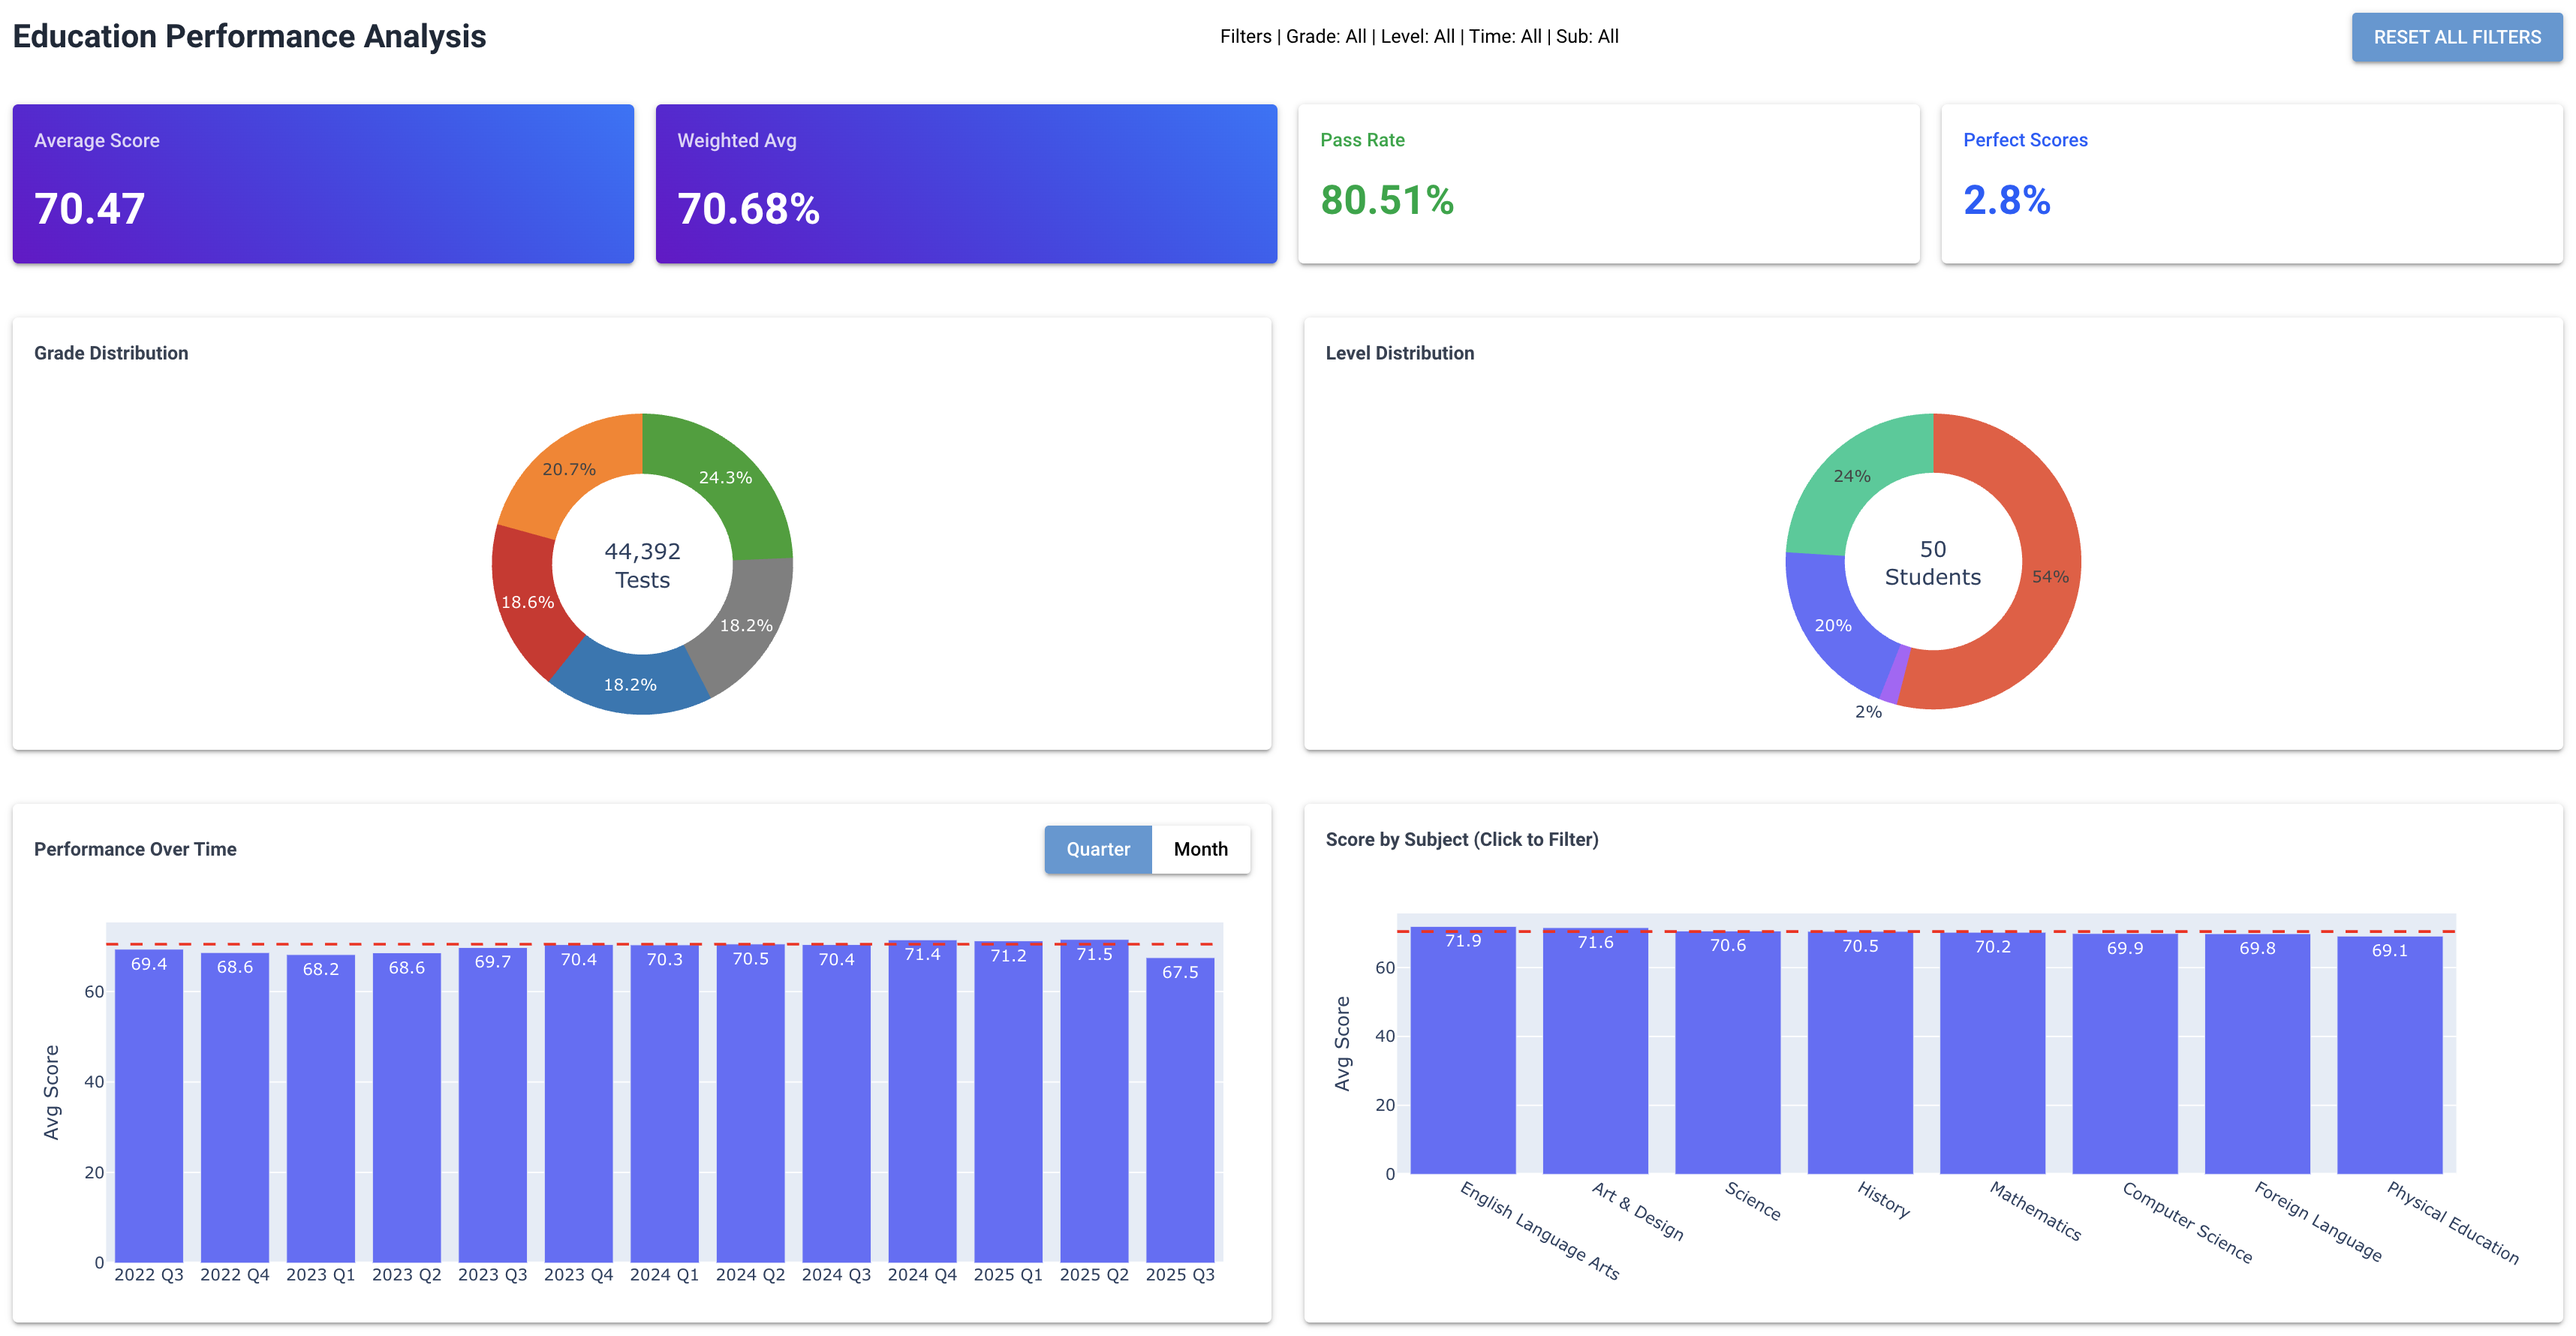
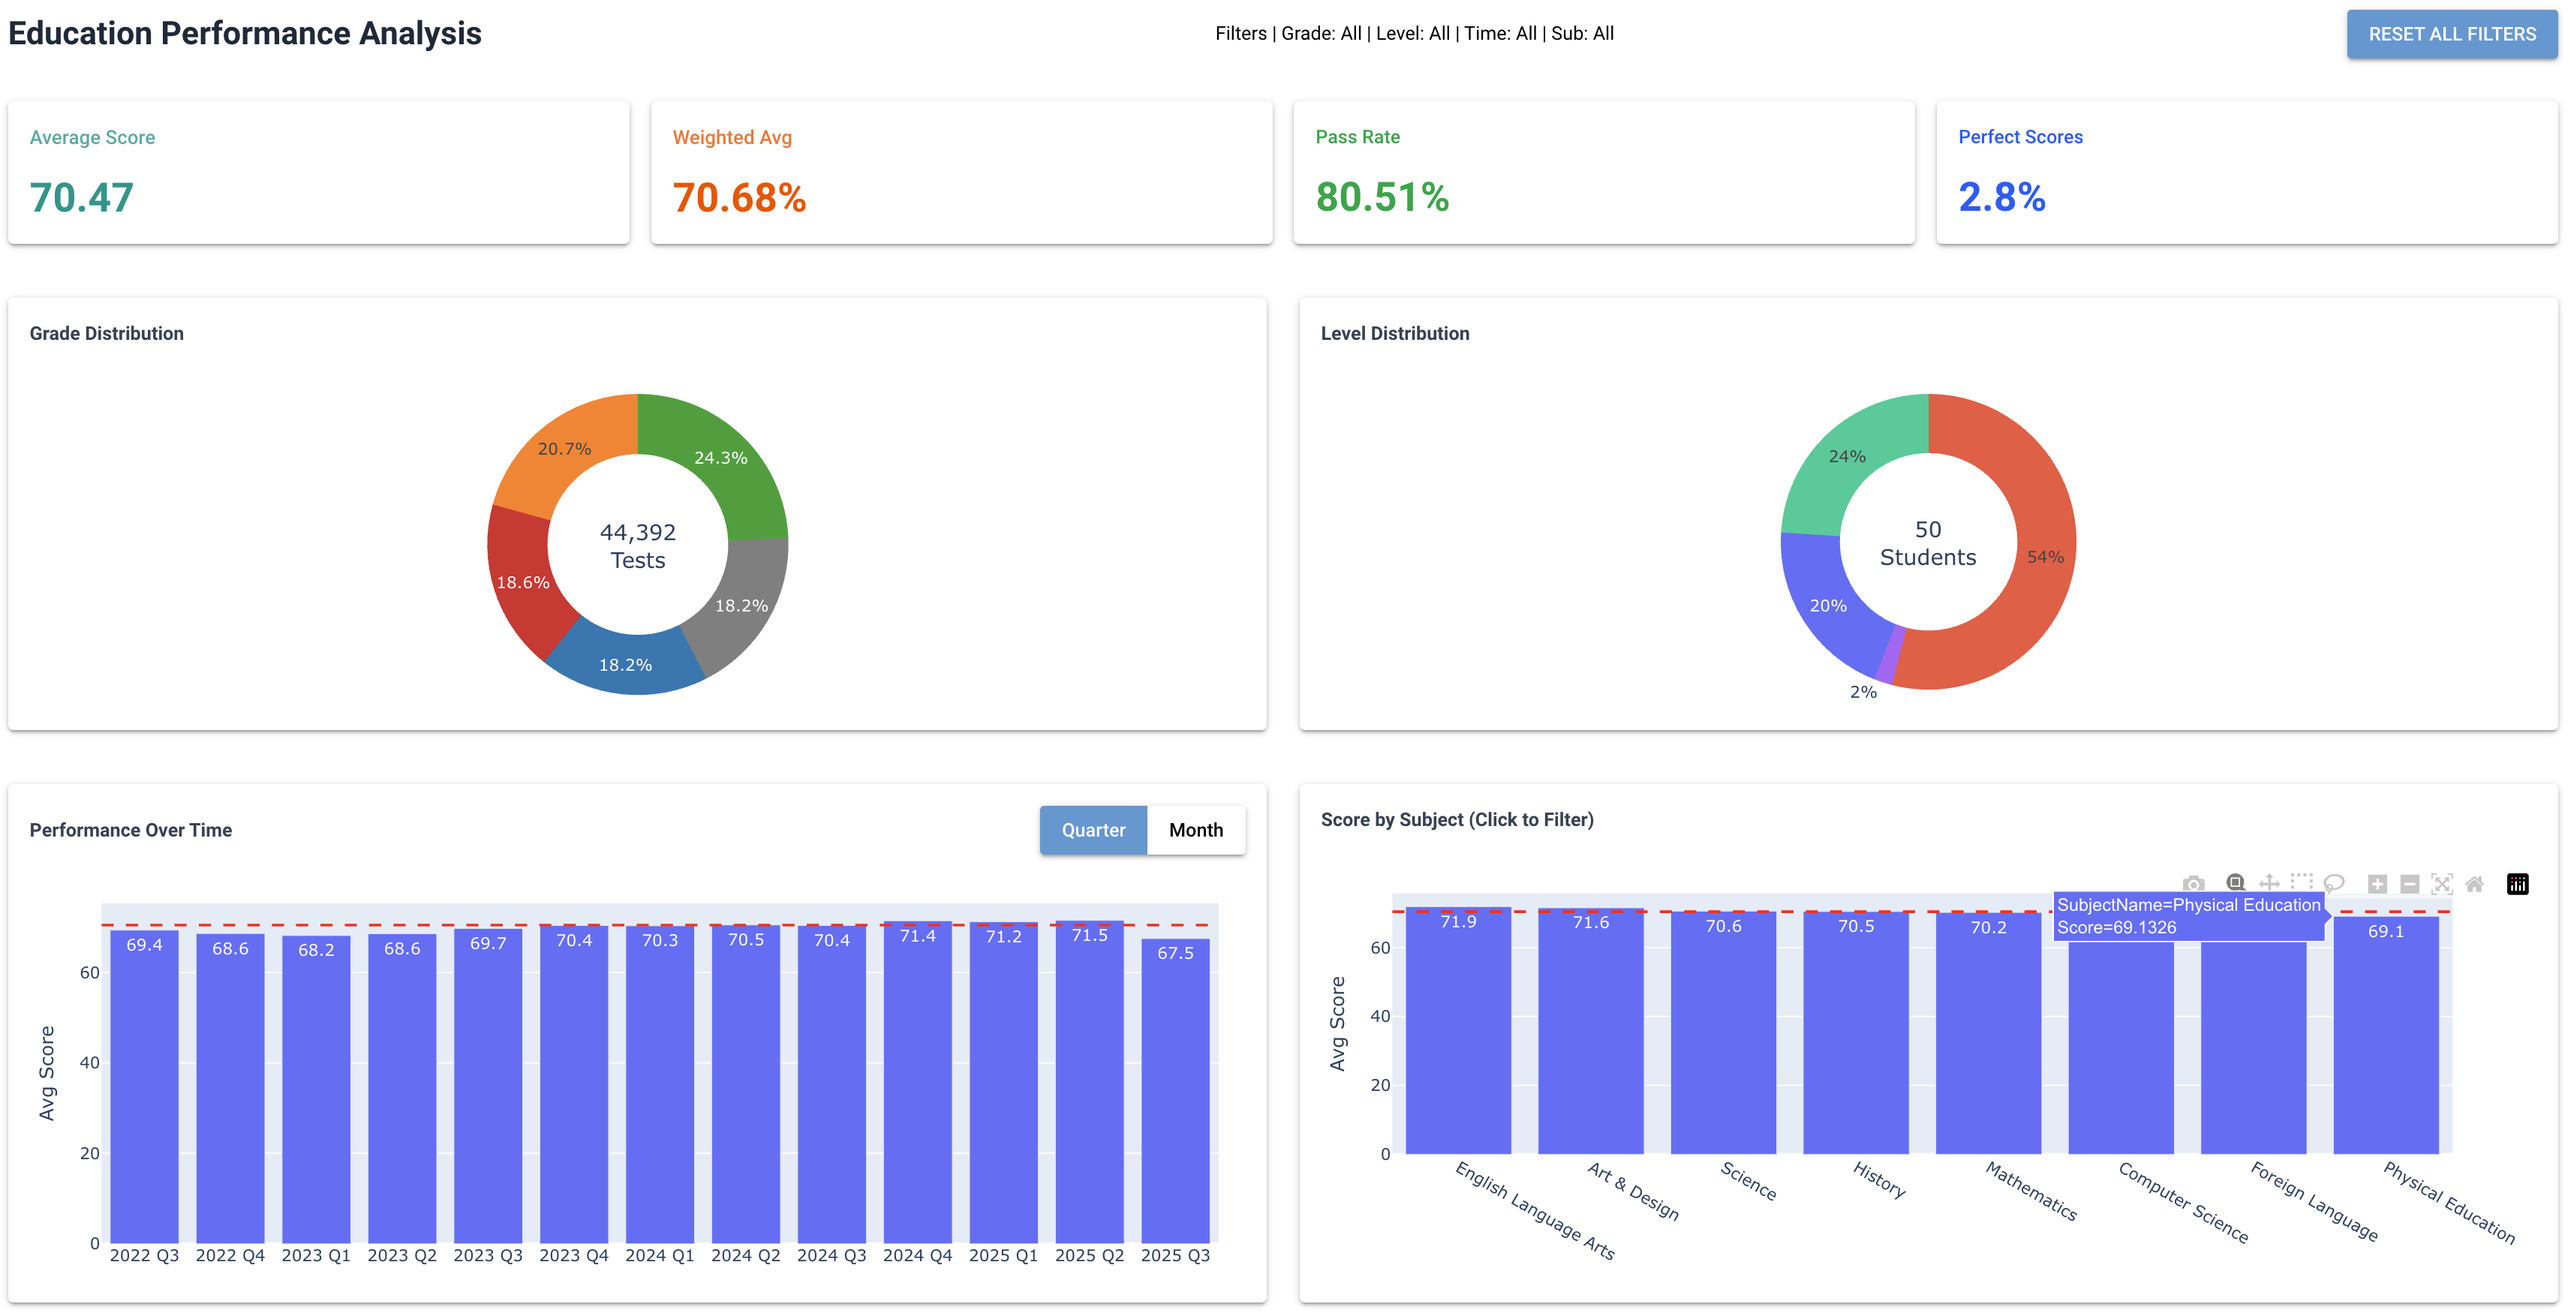
add files

diff --git a/app_multi_user.py b/app_multi_user.py
@@ -420,7 +420,8 @@ class Dashboard:
 
     # ── UI 构建：声明式创建界面并绑定事件 ─────────────────────────────────────────
     def build(self):
-        # 添加自定义 CSS 样式
+        # 添加自定义 CSS 样式 
+        # Text color reference https://primeflex.org/textcolor
         ui.add_head_html('''
             <style>
                 /* 渐变紫卡：用于 KPI */
@@ -451,15 +452,35 @@ class Dashboard:
                 ui.label('Weighted Avg').classes('kpi-title')
                 self.kpi_weighted = ui.label('0.00%').classes('kpi-value')
             # 通过率
-            with ui.card():
-                ui.label('Pass Rate').classes('text-green-600 font-medium')
+            with ui.card().classes('card-purple'):
+                ui.label('Pass Rate').classes('kpi-title')
                 self.kpi_pass = ui.label('0.00%').classes(
-                    'text-green-600 text-3xl font-bold')
+                    'kpi-value')
             # 满分率
-            with ui.card():
-                ui.label('Perfect Scores').classes('text-blue-600 font-medium')
+            with ui.card().classes('card-purple'):
+                ui.label('Perfect Scores').classes('kpi-title')
                 self.kpi_perfect = ui.label('0.0%').classes(
-                    'text-blue-600 text-3xl font-bold')
+                    'kpi-value')
+
+        # with ui.grid(columns=4).classes('w-full gap-4 mb-6'):
+        #     # 平均分
+        #     with ui.card().classes('text-teal-600 font-medium'):
+        #         ui.label('Average Score').classes('kpi-title')
+        #         self.kpi_avg = ui.label('0.00').classes('text-teal-600 text-3xl font-bold')
+        #     # 加权平均
+        #     with ui.card().classes('text-orange-600 font-medium'):
+        #         ui.label('Weighted Avg').classes('kpi-title')
+        #         self.kpi_weighted = ui.label('0.00%').classes('text-orange-600 text-3xl font-bold')
+        #     # 通过率
+        #     with ui.card():
+        #         ui.label('Pass Rate').classes('text-green-600 font-medium')
+        #         self.kpi_pass = ui.label('0.00%').classes(
+        #             'text-green-600 text-3xl font-bold')
+        #     # 满分率
+        #     with ui.card():
+        #         ui.label('Perfect Scores').classes('text-blue-600 font-medium')
+        #         self.kpi_perfect = ui.label('0.0%').classes(
+        #             'text-blue-600 text-3xl font-bold')
 
         # ── 第一行图表：成绩 + 年级（2 列）────────────────────────────────────────
         with ui.grid(columns=2).classes('w-full gap-6 mb-6'):

diff --git a/README.md b/README.md
@@ -1,3 +1,5 @@
-# jubilant-memory 
-- EDUCATION PERFORMANCE ANALYSIS 
-![alt text](image.png)
+# jubilant-memory
+
+- EDUCATION PERFORMANCE ANALYSIS
+  ![alt text](image.png)
+  ![alt text](image-1.png)
